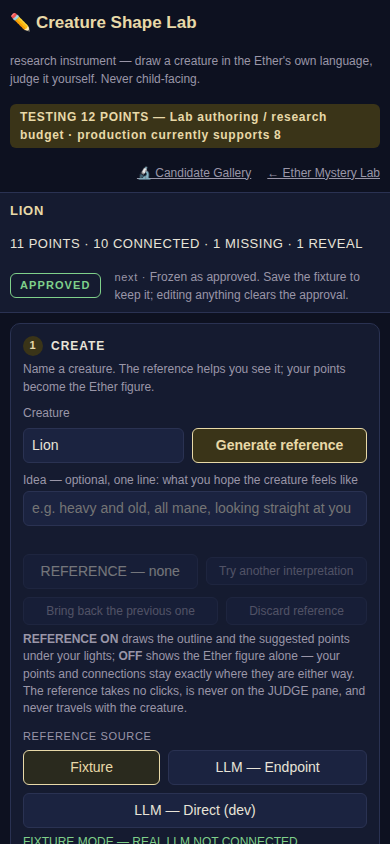
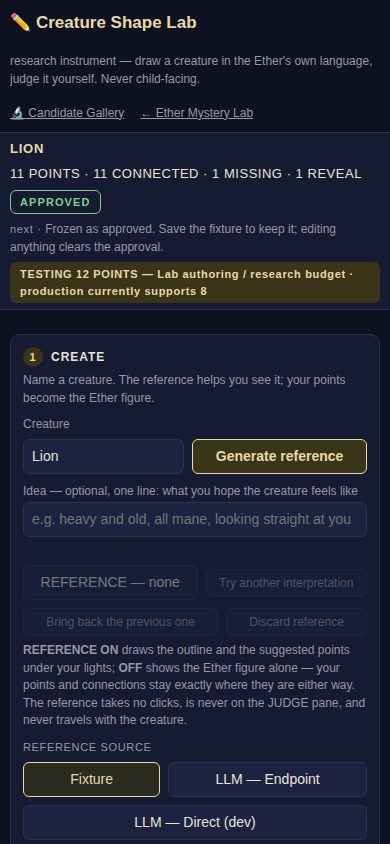
Shape Lab: keep the page's own script order readable by the suite
A CSS comment named labShape.js before the script tags, so AR1f's
"the reference layer loads after the editor" read the comment as the
editor's tag. The comment names "the editor script" instead; the
order of the tags is unchanged. Lab only.

Claude-Session: https://claude.ai/code/session_01TzdZ1zyBvTVhwF2n9XuA9M

Changed region(s): [[0.0, 0.1232, 0.9846, 1.0], [0.6769, 0.8934, 0.8308, 0.955]]

diff --git a/tools/ether-mystery-lab/shape.html b/tools/ether-mystery-lab/shape.html
@@ -57,7 +57,7 @@
   /* The header and the status strip stick too, so the panes sit at ONE
      viewport position whether or not the page is scrolled: the centre's
      sticky top is the top bar's own measured height (--lab-top, set by
-     labShape.js on load and resize). A pane that shifts by the height of
+     the editor script on load, render and resize). A pane that shifts by the height of
      the header when a control below the fold scrolls into view is a pane
      a click can miss by that much — measured, and it did. */
   .topbar { position: sticky; top: 0; z-index: 5; background: var(--bg); }
